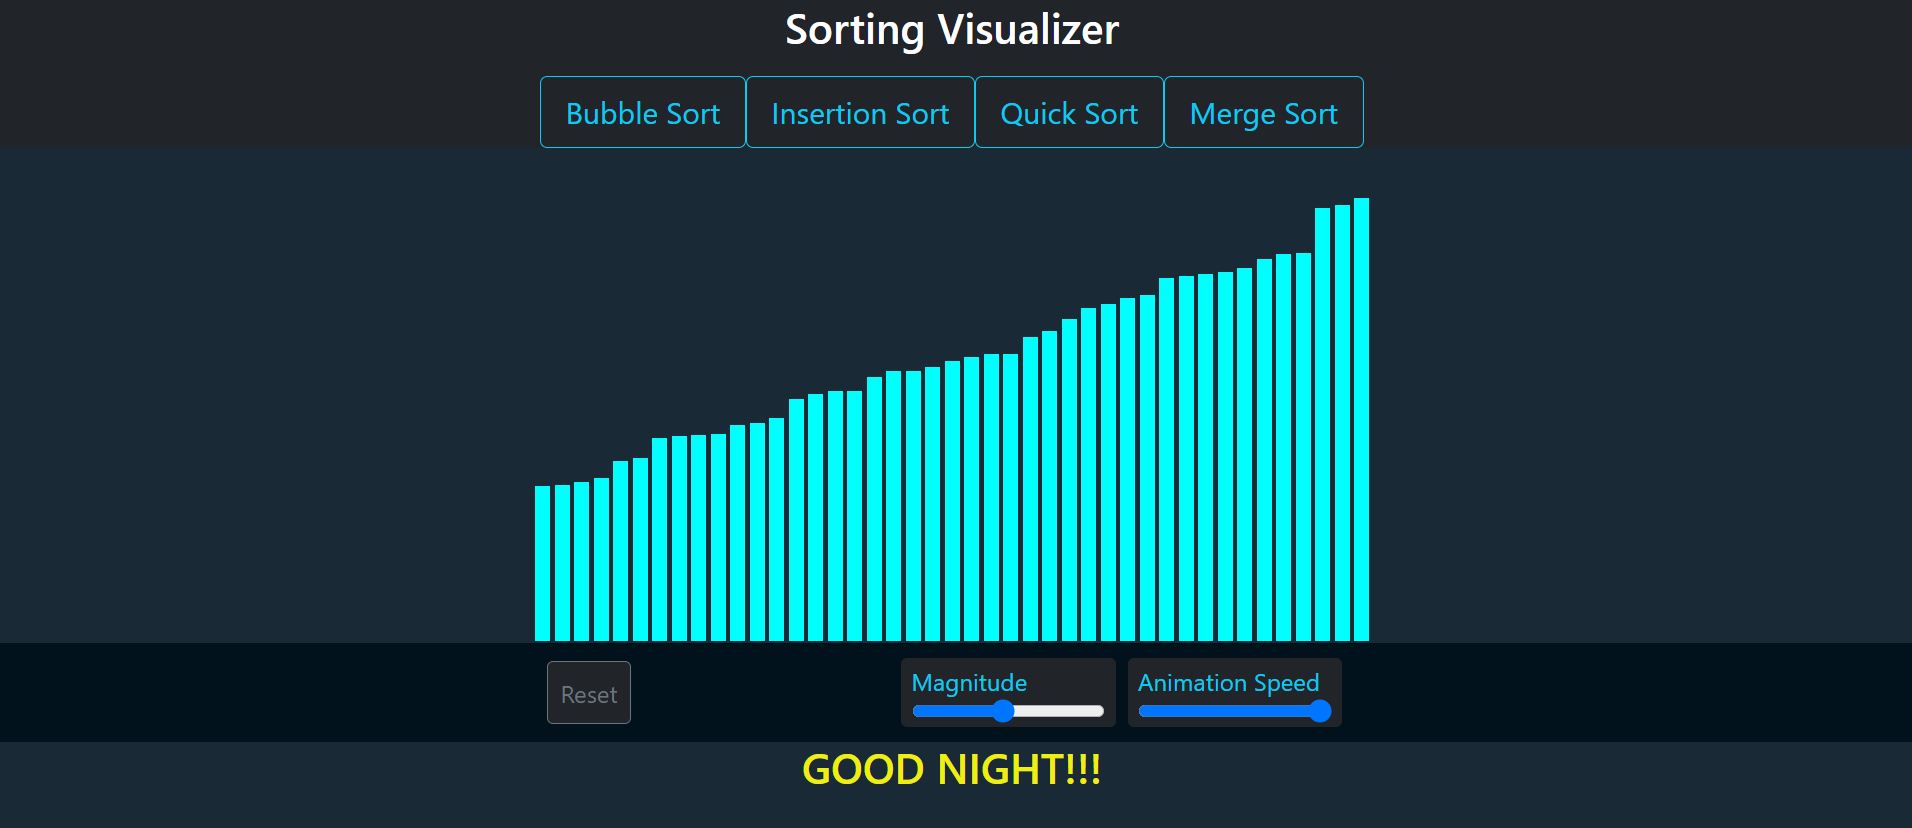
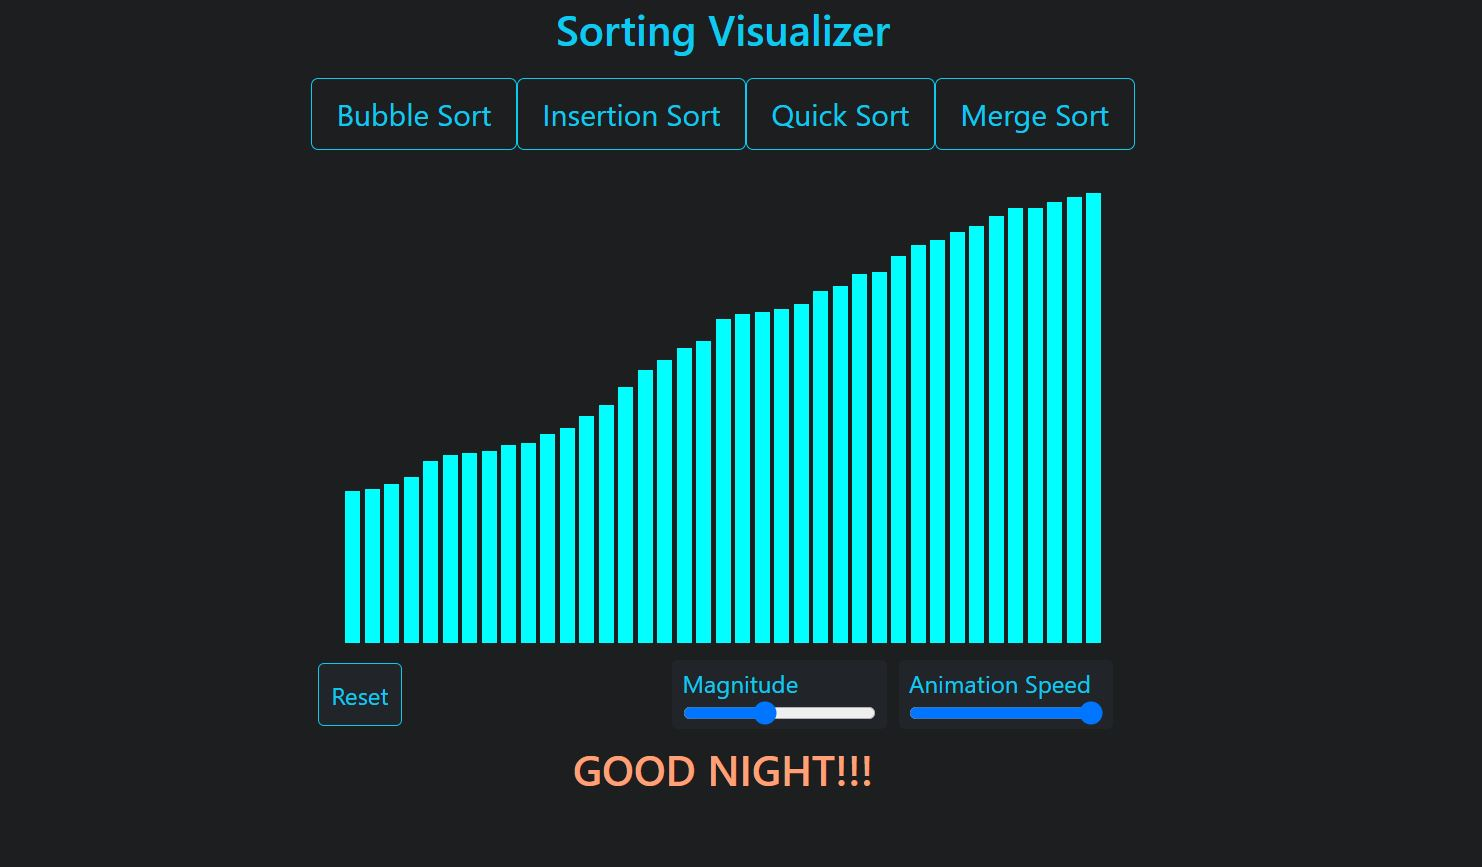
fix coloring issue

Changed region(s): [[0.0, 0.2114, 1.0, 0.9662], [0.2173, 0.0906, 0.776, 0.1812], [0.3725, 0.0, 0.6208, 0.0906]]

diff --git a/index.html b/index.html
@@ -9,13 +9,13 @@
 
 <body id="main">
     <header>
-        <div class="p-2 text-center bg-dark">
-            <h3 class="mx-auto text-white">Sorting Visualizer</h3>
+        <div class="p-2 text-center">
+            <h3 class="mx-auto text-info">Sorting Visualizer</h3>
           </div>
     </header>
    <nav >
         <div class="navBar">
-            <ul class="nav justify-content-center bg-dark">
+            <ul class="nav justify-content-center">
                 <button type="button" id="bubbleSort" class="btn btn-outline-info btn-lg shadow-none">Bubble Sort</button>
                 <button type="button" id="insertionsort" class="btn btn-outline-info btn-lg shadow-none">Insertion Sort</button>
                 <button type="button" id="quicksort" class="btn btn-outline-info btn-lg shadow-none">Quick Sort</button>
@@ -27,7 +27,7 @@
     <div class="button-class">
         <div class="d-flex justify-content-center align-items-center">
             <div >
-                <button type="button" id="createMoreBars" class="btn btn-md btn-outline-secondary btn-dark shadow-none p-2">Reset</button>
+                <button type="button" id="createMoreBars" class="btn btn-md btn-outline-info btn-dark shadow-none p-2">Reset</button>
             </div>
             <div id="input">
                 <div class="d-inline-flex flex-column bg-dark text-info px-1 me-2 border border-dark border-3 rounded"><label>Magnitude</label>

diff --git a/js/bubbleSorting.js b/js/bubbleSorting.js
@@ -11,18 +11,18 @@ async function bubbleSorting(value){
     for(let i = 0; i < value.length; i++){
         for(let j = 0; j < value.length-i-1; j++){
             // the current two element that are being swapped.
-            value[j].style.background = "#6251a8";
-            value[j+1].style.background = "#6251a8";
+            value[j].style.background = "rgb(255, 220, 123)";
+            value[j+1].style.background = "rgb(255, 220, 123)";
             if(value[j].style.height > value[j+1].style.height){   
                 await waitTimer(delay); // adds a delay for each swap.
                 elementSwapper(value[j], value[j+1]);
             }
             // the two element that swapped
-            value[j].style.background = "#ab6503";
-            value[j+1].style.background = "#ab6503";
+            value[j].style.background = "rgb(255, 119, 119)";
+            value[j+1].style.background = "rgb(255, 119, 119)";
         }
         // the highest one color gets changed
-        value[value.length-1-i].style.background = "#1f7056";
+        value[value.length-1-i].style.background = "rgb(200, 86, 253)";
     }
 }
 

diff --git a/css/style.css b/css/style.css
@@ -1,10 +1,10 @@
 body {
-    background-color: #192A36;;
+    background-color: rgb(28, 30, 31);
 }
 .flex-div {
     height: 330px;
     transform: rotateX(180deg);
-    background-color: #192A36;
+    background-color: rgb(28, 30, 31);
     display: flex;
     flex-direction: row;
     justify-content: center;
@@ -12,7 +12,7 @@ body {
 }
 .button-class {
     width: 100%;
-    background-color: rgb(1, 18, 29);
+    background-color: rgb(28, 30, 31);
 }
 .letter1{
    display: inline;
@@ -21,14 +21,14 @@ body {
    animation: pulse 5s infinite;
 }
 @keyframes pulse {
-    0%  {color: red;}
-  25%   {color: yellow;}
-  50%   {color: blue;}
-  100%  {color: green;}
+    0%  {color: rgb(255, 119, 119);}
+  25%   {color: rgb(255, 220, 123);}
+  50%   {color: rgb(117, 234, 255);}
+  100%  {color: rgb(140, 248, 118);}
 }
 
 .wrapper{
-    background-color: rgb(255, 145, 0);
+    background-color: rgb(200, 86, 253);
     /* display: inline; */
     /* color: blue; */
     /* animation-name: changeColor; */

diff --git a/js/quicksort.js b/js/quicksort.js
@@ -30,7 +30,7 @@ let partitioner = async (left, right, val) => {
     let pointRight = right-1; //excluding the pivot value
     let pivot = right;
     let pivotEle = val[right].style.height;
-    val[pivot].style.background = "blue"; // use it to track the pivot element
+    val[pivot].style.background = "rgb(255, 220, 123)"; // use it to track the pivot element
     while(true){
         while(val[pointLeft].style.height < pivotEle){
             pointLeft++;
@@ -40,8 +40,8 @@ let partitioner = async (left, right, val) => {
             //which would try access element outside indexBound that does not exist
             pointRight--;
         }
-        val[pointLeft].style.background = "red";
-        val[pointRight].style.background="green";
+        val[pointLeft].style.background = "rgb(255, 119, 119)";
+        val[pointRight].style.background="rgb(200, 86, 253)";
         if(pointLeft >= pointRight){
             break;
         }else{

diff --git a/README.md b/README.md
@@ -11,4 +11,3 @@
 
 [Website Link](https://rayhan1210.github.io/Sorting_Visualizer/)
 <img src="image/insertion.png"><br/>
-<img src="image/merge.png"><br/>
